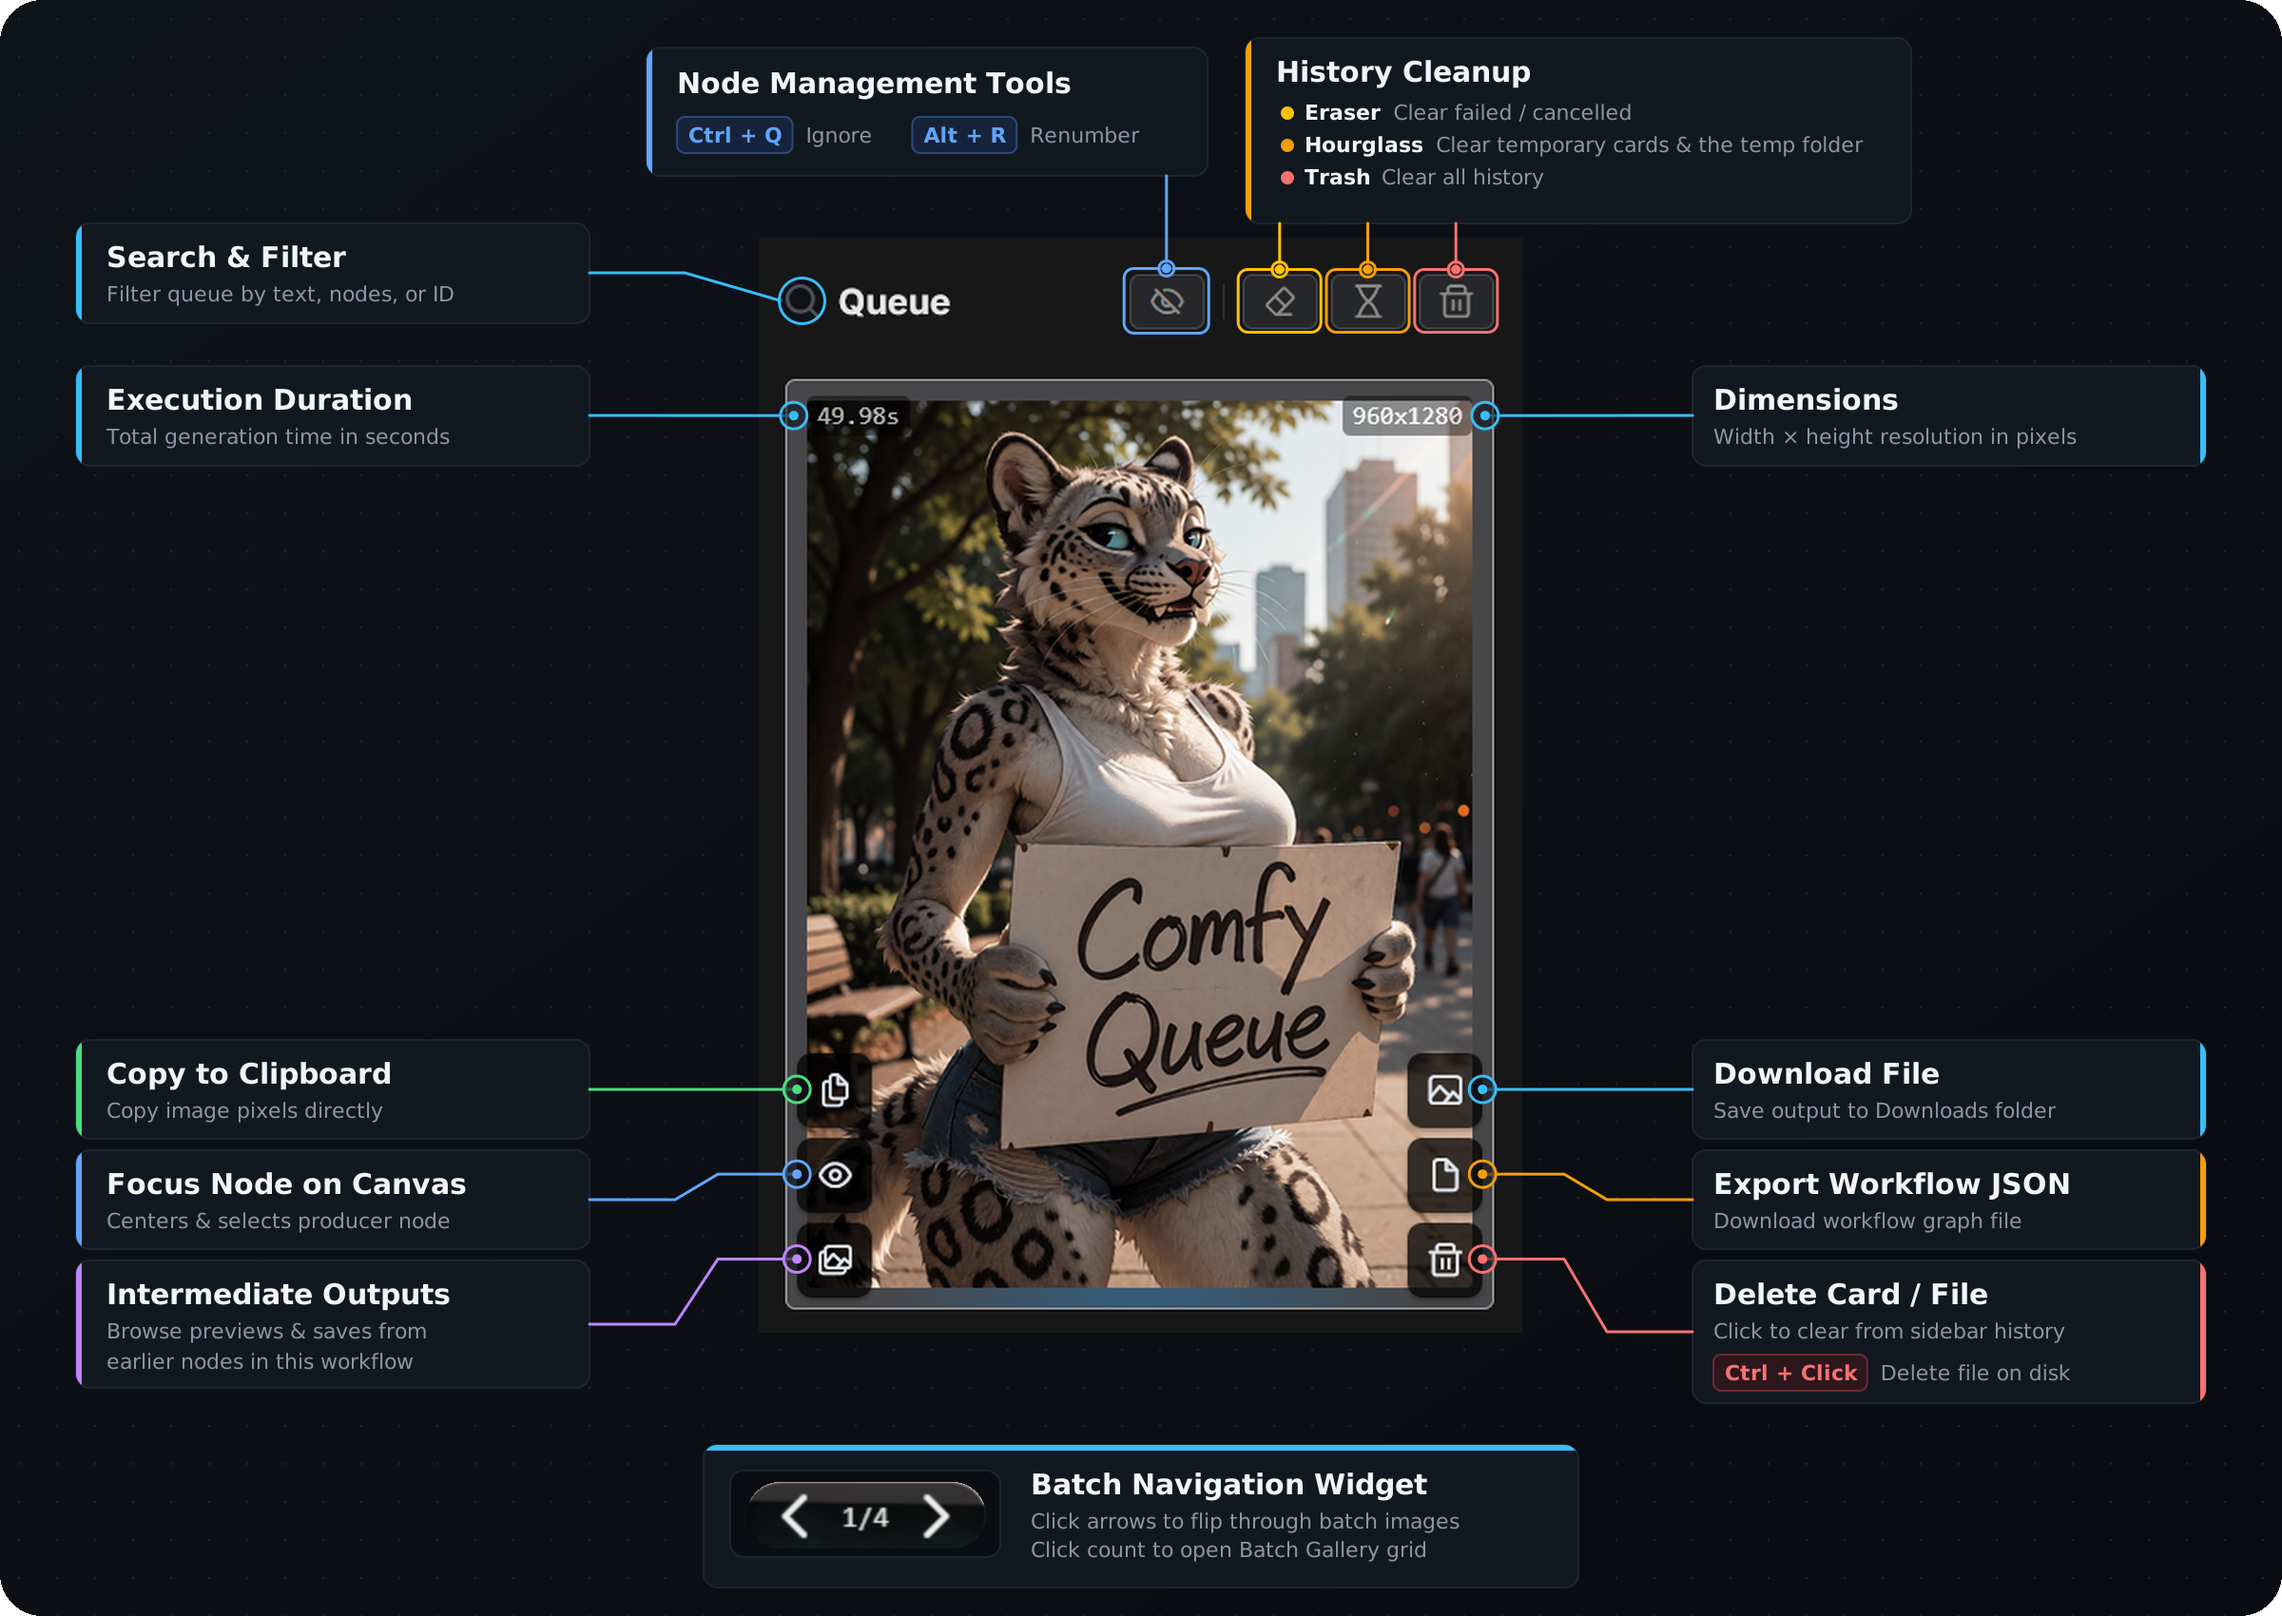
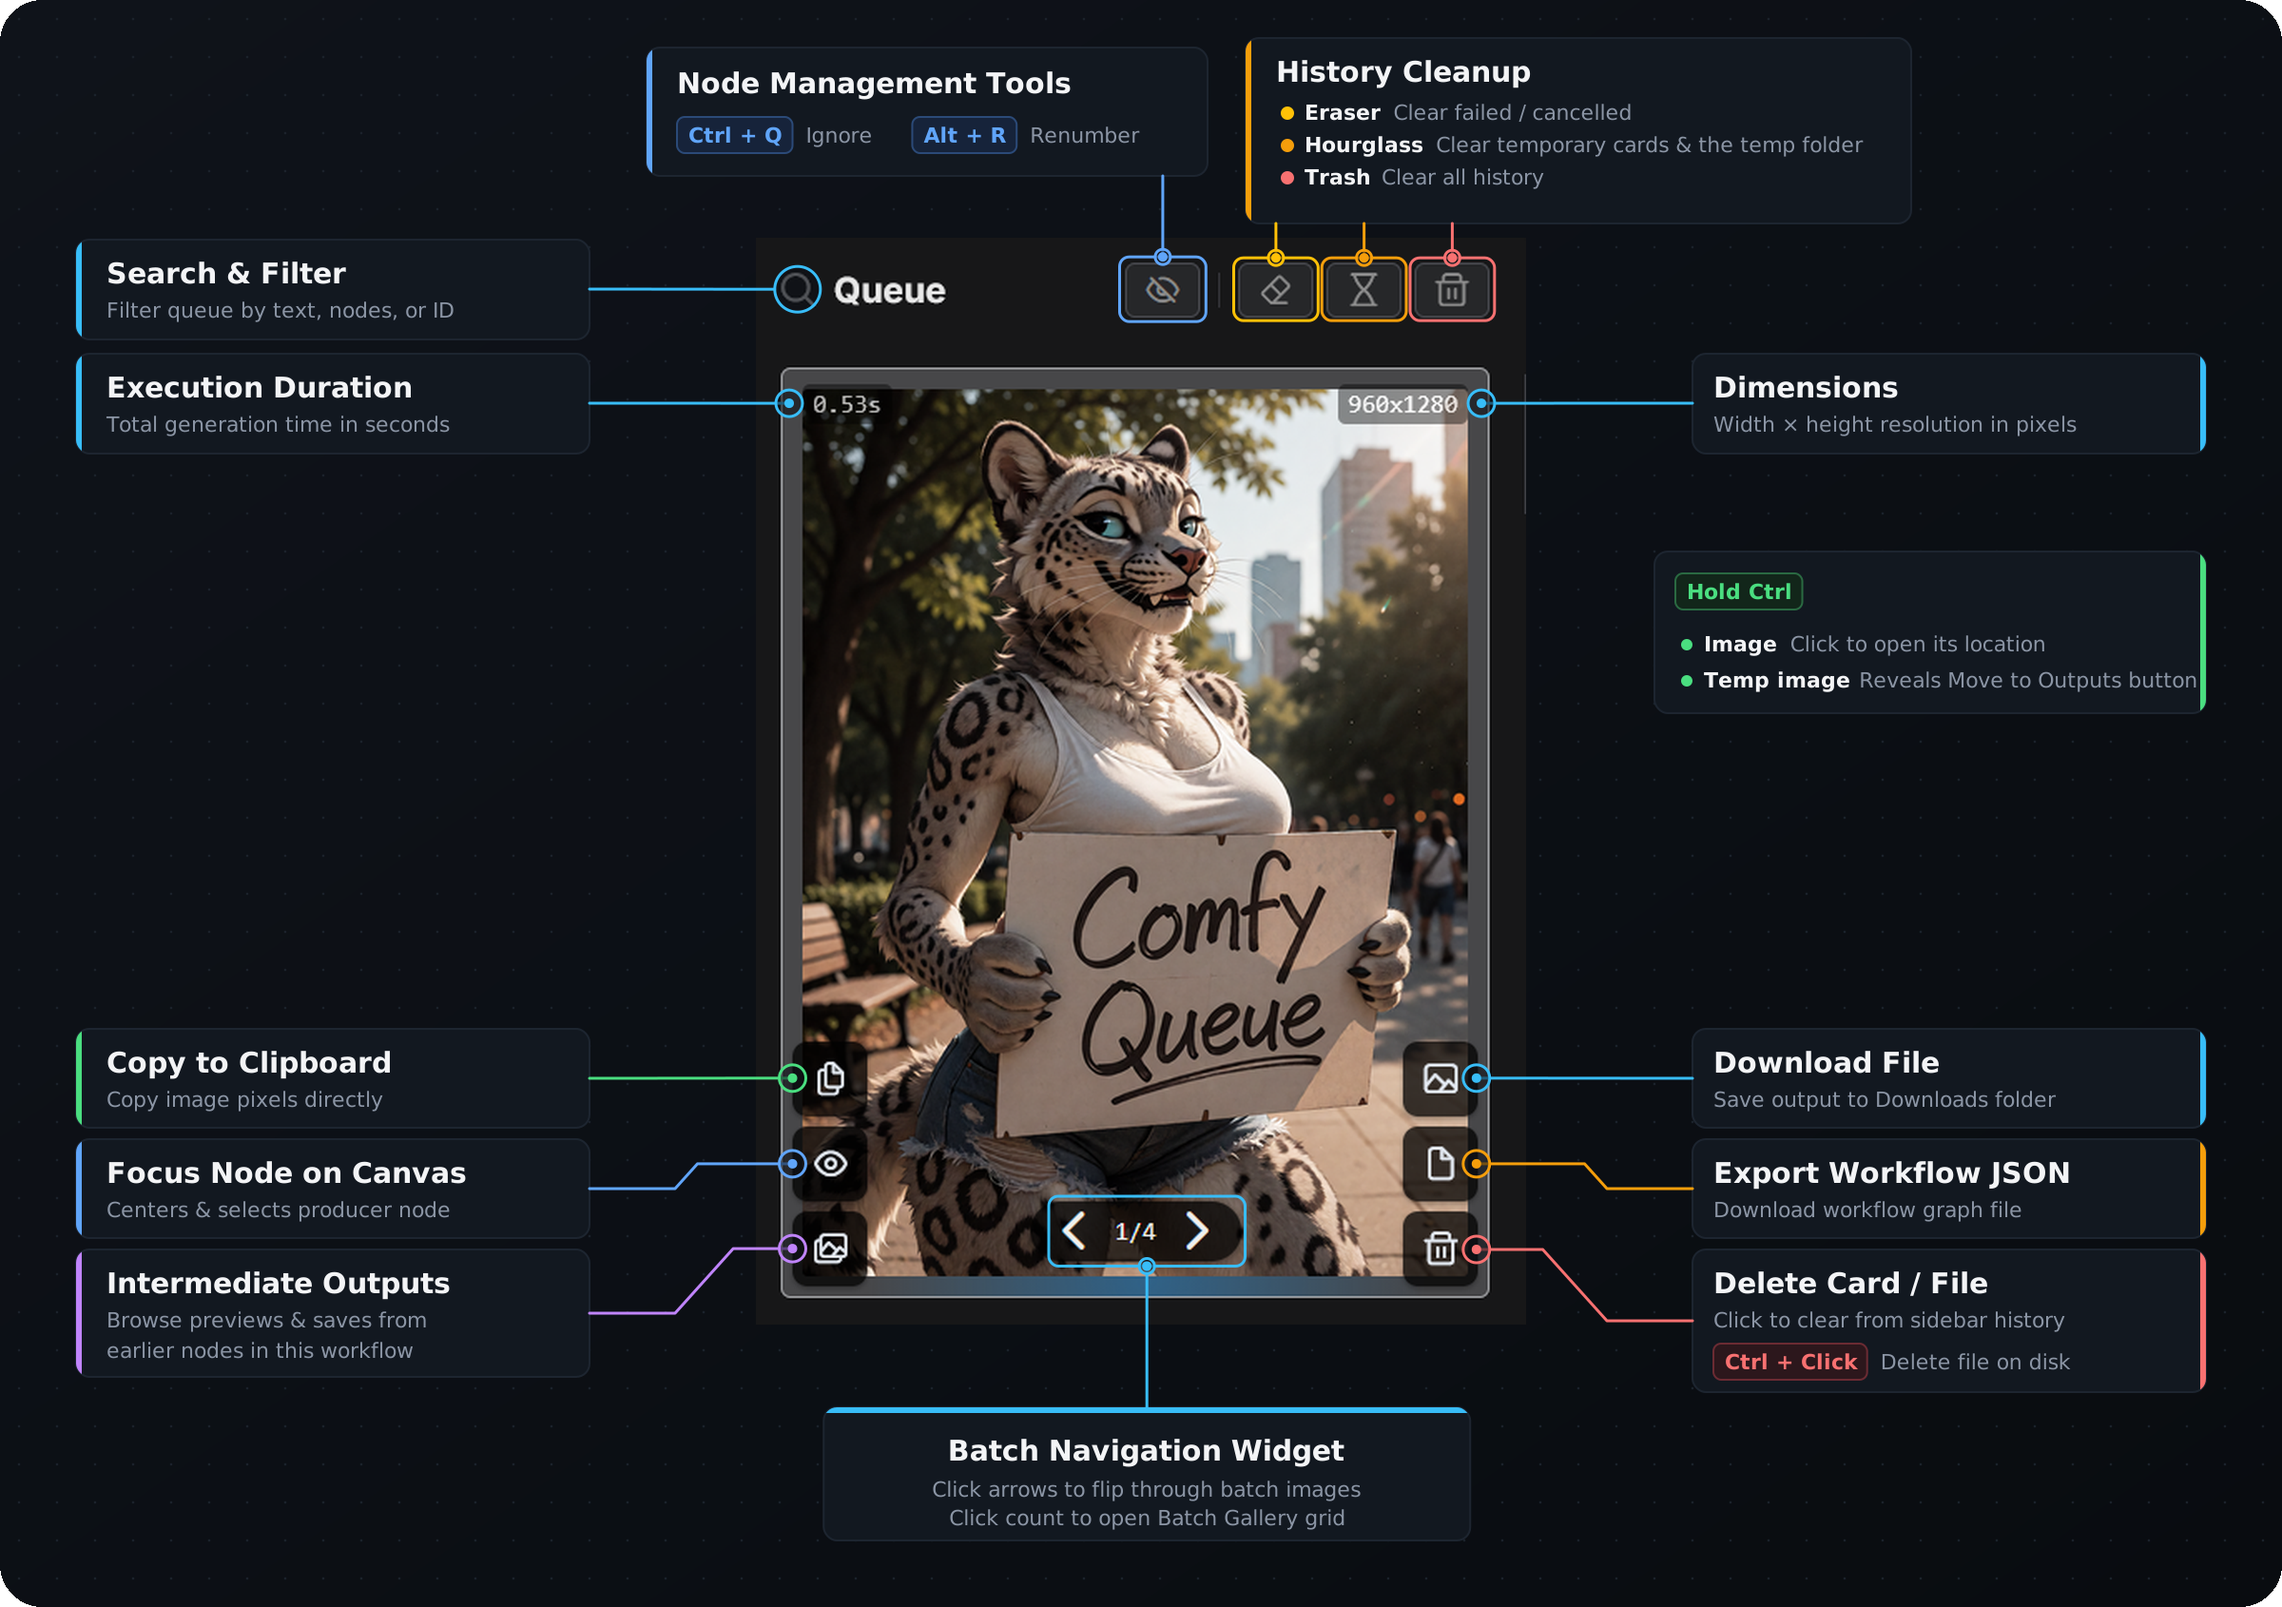
docs: Queue overview with batch widget pointer and Ctrl actions; mention Move to Outputs in README

diff --git a/README.md b/README.md
@@ -10,7 +10,7 @@ A compact and powerful layout overhaul for ComfyUI that makes generation results
   
 * **Left or right side:** Choose which side the sidebar appears on in ComfyUI settings.
 
-* **Simplified mouse-friendly workflow** with drag-and-drop support and convenient actions for moving results back into the workflow, opening files, and managing outputs. Hold `Ctrl` for extra actions such as opening an image's location or deleting it directly from your device.
+* **Simplified mouse-friendly workflow** with drag-and-drop support and convenient actions for moving results back into the workflow, opening files, and managing outputs. Hold `Ctrl` for extra actions such as opening an image's location, deleting it directly from your device, or moving a temporary image to your Outputs folder.
 
   <img src="assets/controls.png" alt="ComfySidebar controls overview">
 
